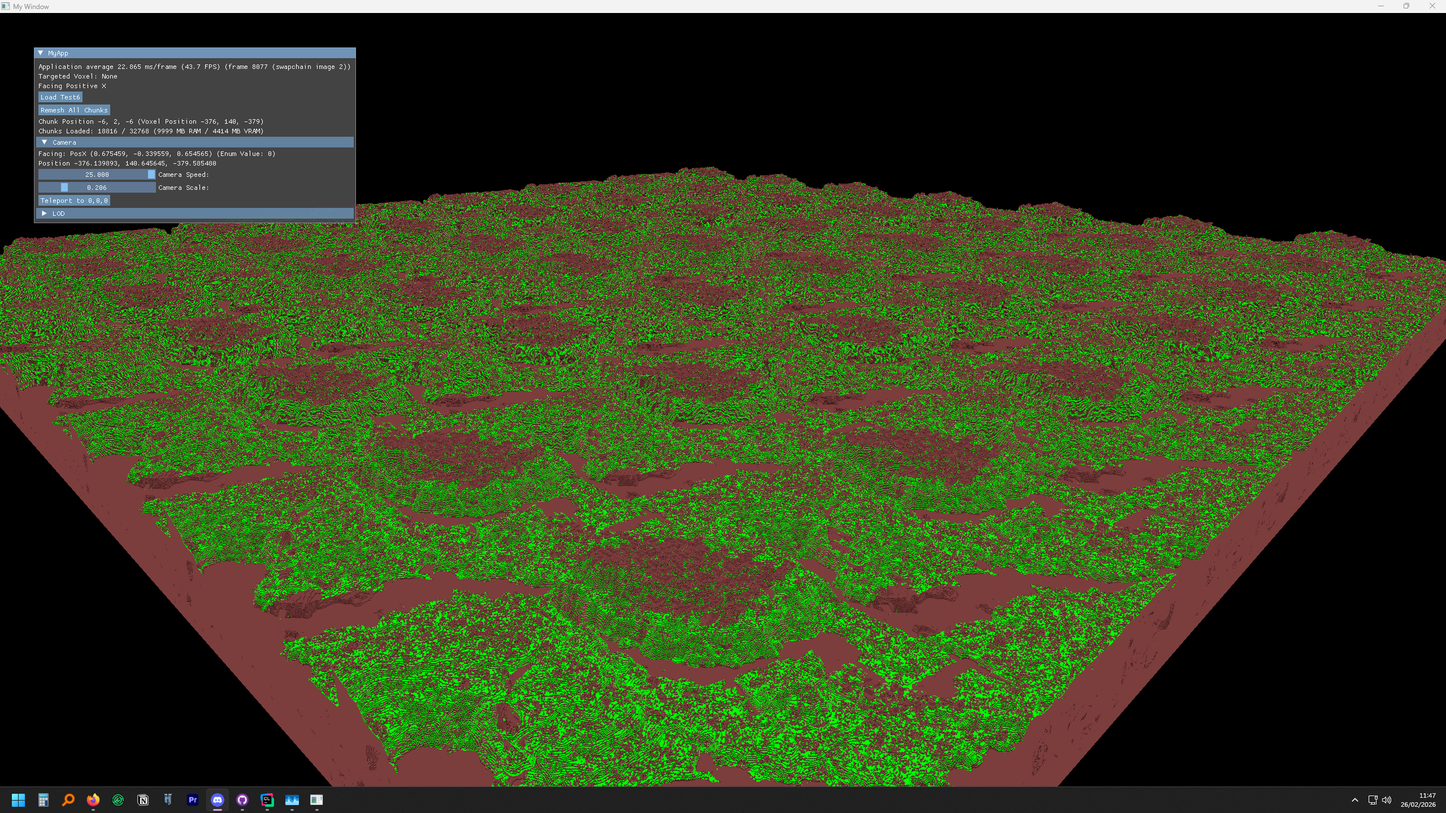
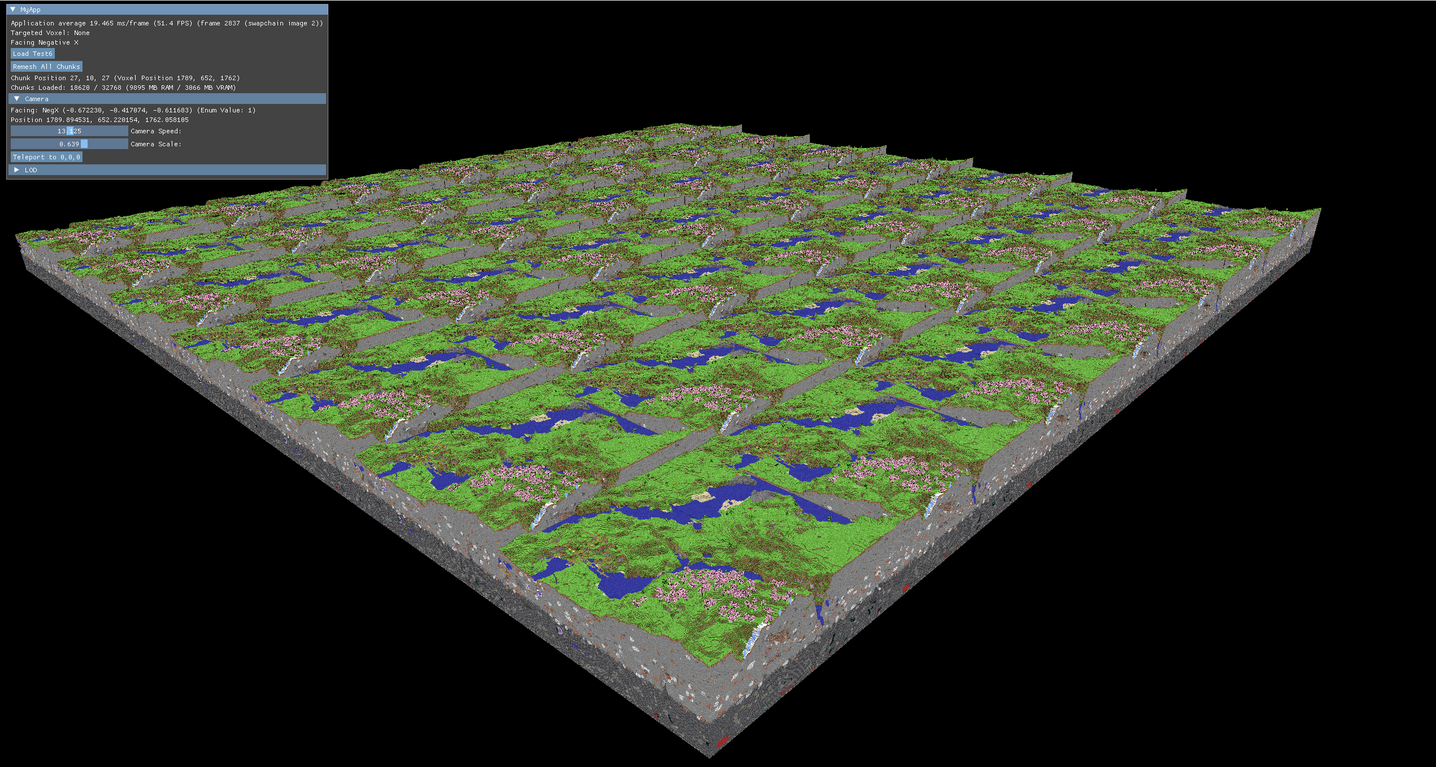
updated readme with new minecraft worlds

diff --git a/Spire/Game/Source/GameApplication.cpp b/Spire/Game/Source/GameApplication.cpp
@@ -145,68 +145,69 @@ void GameApplication::Start(Engine &engine) {
     // }
 
     // Stress test: (big world)
-    // should be test6 and profiling !!
+    // should be profiling!!
+    // copies the current world 48 times for a 7x7 region
 
-    // std::unordered_map<glm::ivec3, Chunk *> chunks;
-    //
-    // glm::ivec3 minChunkPos{INT32_MAX};
-    // glm::ivec3 maxChunkPos{INT32_MIN};
-    //
-    // for (auto &[pos, chunk] : world) {
-    //     chunks.emplace(pos, chunk.get());
-    //
-    //     minChunkPos = glm::min(minChunkPos, pos);
-    //     maxChunkPos = glm::max(maxChunkPos, pos);
-    // }
-    //
-    // if (chunks.empty())
-    //     return;
-    //
-    // glm::ivec3 worldSize = maxChunkPos - minChunkPos + glm::ivec3(1);
-    //
-    // constexpr glm::ivec3 SIZE{7, 1, 7};
-    //
-    // for (int sx = 0; sx < SIZE.x; ++sx) {
-    //     info("progress: {}/{}", sx, SIZE.x);
-    //     int ox = sx - SIZE.x / 2;
-    //
-    //     for (int sy = 0; sy < SIZE.y; ++sy) {
-    //         int oy = sy - SIZE.y / 2;
-    //
-    //         for (int sz = 0; sz < SIZE.z; ++sz) {
-    //             int oz = sz - SIZE.z / 2;
-    //
-    //             if (ox == 0 && oy == 0 && oz == 0)
-    //                 continue;
-    //
-    //             glm::ivec3 offset{ox, oy, oz};
-    //             glm::ivec3 baseDst = minChunkPos + offset * worldSize;
-    //
-    //             for (int i = 0; i < worldSize.x; ++i) {
-    //                 for (int j = 0; j < worldSize.y; ++j) {
-    //                     for (int k = 0; k < worldSize.z; ++k) {
-    //                         glm::ivec3 local{i, j, k};
-    //                         glm::ivec3 srcPos = minChunkPos + local;
-    //
-    //                         auto it = chunks.find(srcPos);
-    //                         if (it == chunks.end())
-    //                             continue;
-    //
-    //                         Chunk *src = it->second;
-    //
-    //                         glm::ivec3 dstPos = baseDst + local;
-    //                         Chunk &dst = world.LoadChunk(dstPos);
-    //
-    //                         dst.VoxelData = src->VoxelData;
-    //                         dst.VoxelBits = src->VoxelBits;
-    //
-    //                         world.GetRenderer().NotifyChunkEdited(dst);
-    //                     }
-    //                 }
-    //             }
-    //         }
-    //     }
-    // }
+    std::unordered_map<glm::ivec3, Chunk *> chunks;
+
+    glm::ivec3 minChunkPos{INT32_MAX};
+    glm::ivec3 maxChunkPos{INT32_MIN};
+
+    for (auto &[pos, chunk] : world) {
+        chunks.emplace(pos, chunk.get());
+
+        minChunkPos = glm::min(minChunkPos, pos);
+        maxChunkPos = glm::max(maxChunkPos, pos);
+    }
+
+    if (chunks.empty())
+        return;
+
+    glm::ivec3 worldSize = maxChunkPos - minChunkPos + glm::ivec3(1);
+
+    constexpr glm::ivec3 SIZE{7, 1, 7};
+
+    for (int sx = 0; sx < SIZE.x; ++sx) {
+        info("progress: {}/{}", sx, SIZE.x);
+        int ox = sx - SIZE.x / 2;
+
+        for (int sy = 0; sy < SIZE.y; ++sy) {
+            int oy = sy - SIZE.y / 2;
+
+            for (int sz = 0; sz < SIZE.z; ++sz) {
+                int oz = sz - SIZE.z / 2;
+
+                if (ox == 0 && oy == 0 && oz == 0)
+                    continue;
+
+                glm::ivec3 offset{ox, oy, oz};
+                glm::ivec3 baseDst = minChunkPos + offset * worldSize;
+
+                for (int i = 0; i < worldSize.x; ++i) {
+                    for (int j = 0; j < worldSize.y; ++j) {
+                        for (int k = 0; k < worldSize.z; ++k) {
+                            glm::ivec3 local{i, j, k};
+                            glm::ivec3 srcPos = minChunkPos + local;
+
+                            auto it = chunks.find(srcPos);
+                            if (it == chunks.end())
+                                continue;
+
+                            Chunk *src = it->second;
+
+                            glm::ivec3 dstPos = baseDst + local;
+                            Chunk &dst = world.LoadChunk(dstPos);
+
+                            dst.VoxelData = src->VoxelData;
+                            dst.VoxelBits = src->VoxelBits;
+
+                            world.GetRenderer().NotifyChunkEdited(dst);
+                        }
+                    }
+                }
+            }
+        }
+    }
 
     m_profiling = std::make_unique<Profiling>(*m_engine, *m_voxelRenderer);
 }

diff --git a/README.md b/README.md
@@ -4,11 +4,13 @@ Spire is a voxel renderer written in Vulkan using the rasterization pipeline.
 
 See [Documentation](https://github.com/underscore95/VulkanTutorial/tree/main/Documentation) for documentation, building instructions,  etc.
 
+The default GameApplication code relies on Minecraft assets, see [MinecraftRegionConverter README](https://github.com/underscore95/Spire/tree/minecraft-importer-v2/Tooling/MinecraftRegionConverter) for more information.
+
 ## Minecraft World
 ![Screenshot](Documentation/Images/ao_screenshot.png)
 Above is a screenshot showing Spire rendering 32x32 Minecraft chunks (36,031,803 non-empty voxels) at over 9600 FPS on an RTX 4060 TI with 65 MB VRAM.
 
-Minecraft (1.21.1) renders the same world region at 700 FPS with ~0.5GB VRAM. Obviously an unfair comparison because Minecraft has lighting, more voxels, entities, etc.
+Minecraft (1.21.1) renders the same world region at 700 FPS with ~0.5GB VRAM. Obviously an unfair comparison because Minecraft has lighting, entities, etc.
 
 The entire world can be remeshed and uploaded to the GPU in 180ms (125ms without ambient occlusion) on an i7-12700F (20 threads).
 
@@ -18,7 +20,7 @@ While Spire supports up to 2^16-1 voxel types, only grass and dirt have been con
 ![Screenshot](Documentation/Images/big_world.png)
 Spire can render the previous 32x32 Minecraft chunk world 49 times (totalling 1568x1568x384 blocks) at 60 FPS and 4.3 GB VRAM on an RTX 4060 TI in **level 1 LOD** (full detail)
 
-**Note:** The world appears to be repeating becasue I copy pasted the same 512x384x512 area 48 times (to make a 7x7 square), this is because my Minecraft importer script would take 16 hours to convert a big enough Minecraft world into SPRC files.
+**Note:** The world appears to be repeating becasue I copy pasted the same 512x384x512 area 48 times (to make a 7x7 square), this is because Spire stores worlds in an uncompressed format for fast reading and otherwise this world would be 9GB.
 
 ### Top Down View
 ![Screenshot](Documentation/Images/comparison.png)
